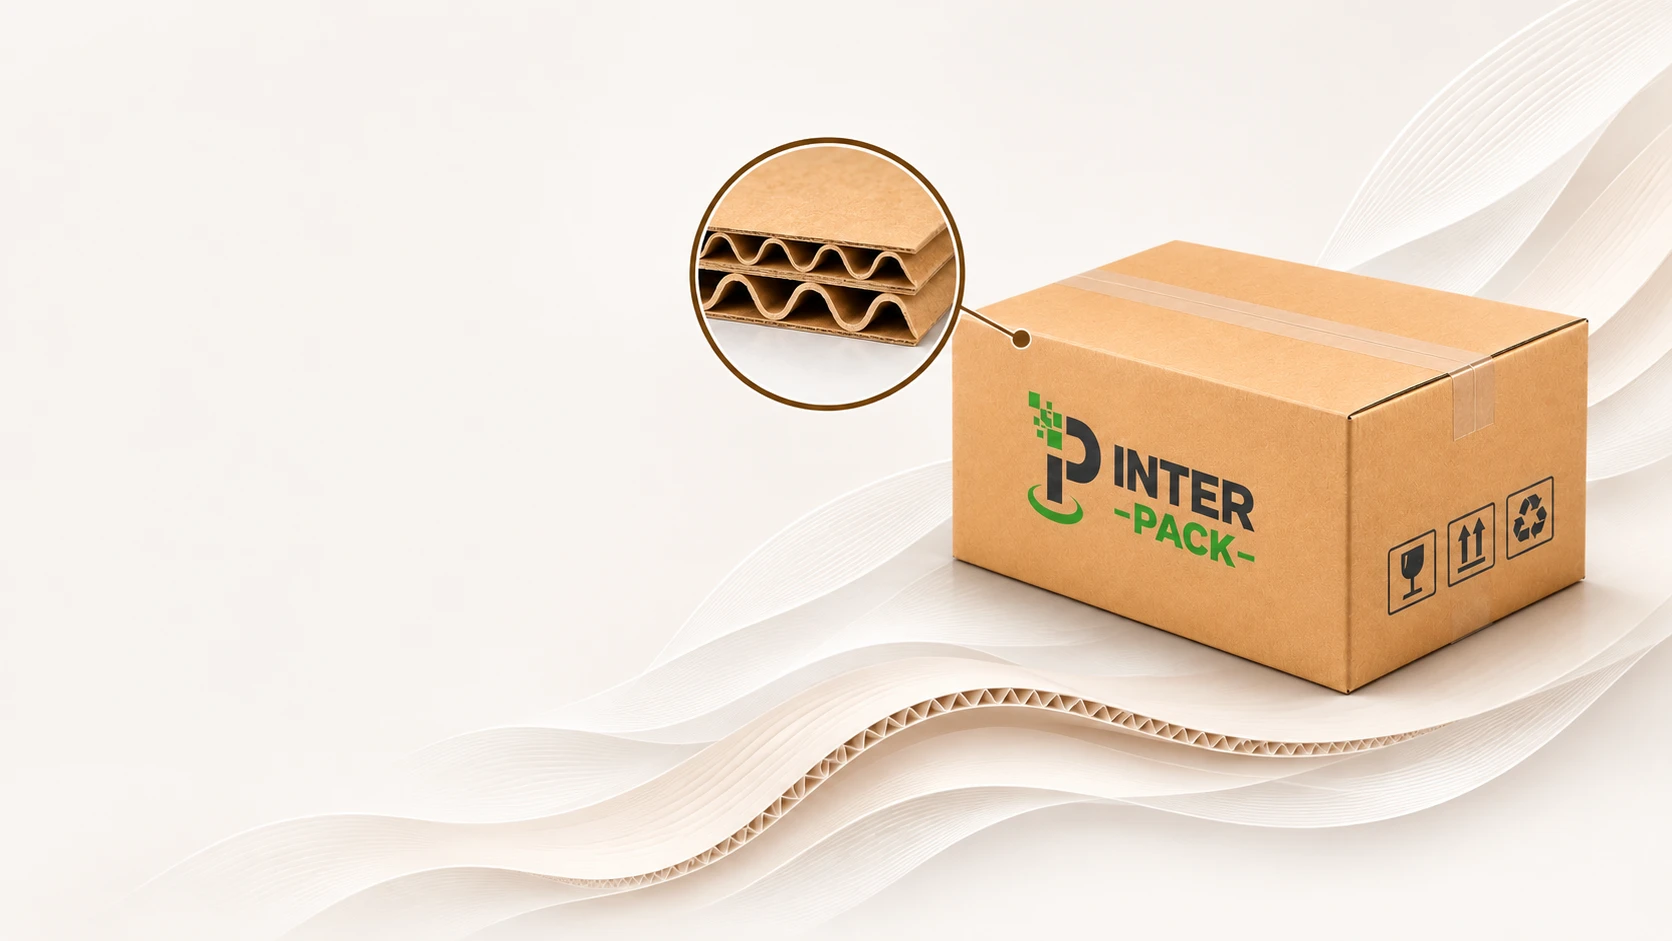
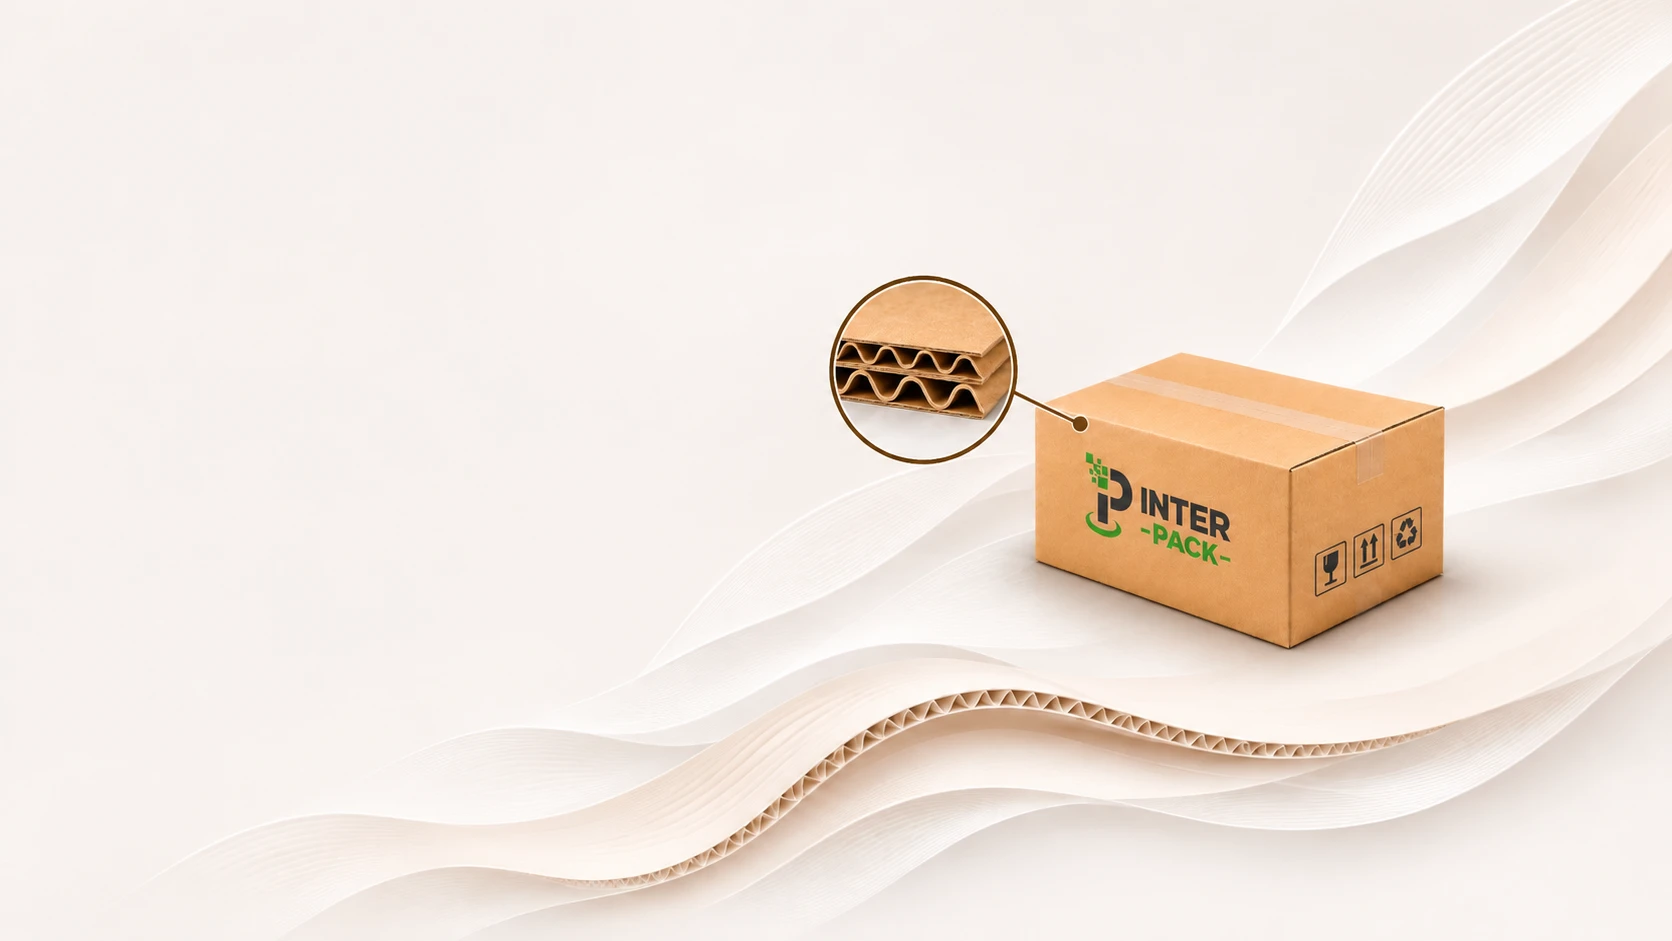
Swap home hero background to the updated box photo
Claude-Session: https://claude.ai/code/session_01UoLkfdkL2AE7BdS2rfwpFF

diff --git a/index.html b/index.html
@@ -518,4 +518,4 @@
 <script src="js/contact-form.js?v=3"></script>
 </body>
 </html>
-<!-- branch: claude/inter-pack-website-kkgw7z, last changed by Claude: 2026-11-05 17:29 (Tashkent time, UTC+5) -->
+<!-- branch: claude/inter-pack-website-kkgw7z, last changed by Claude: 2026-11-05 17:48 (Tashkent time, UTC+5) -->
